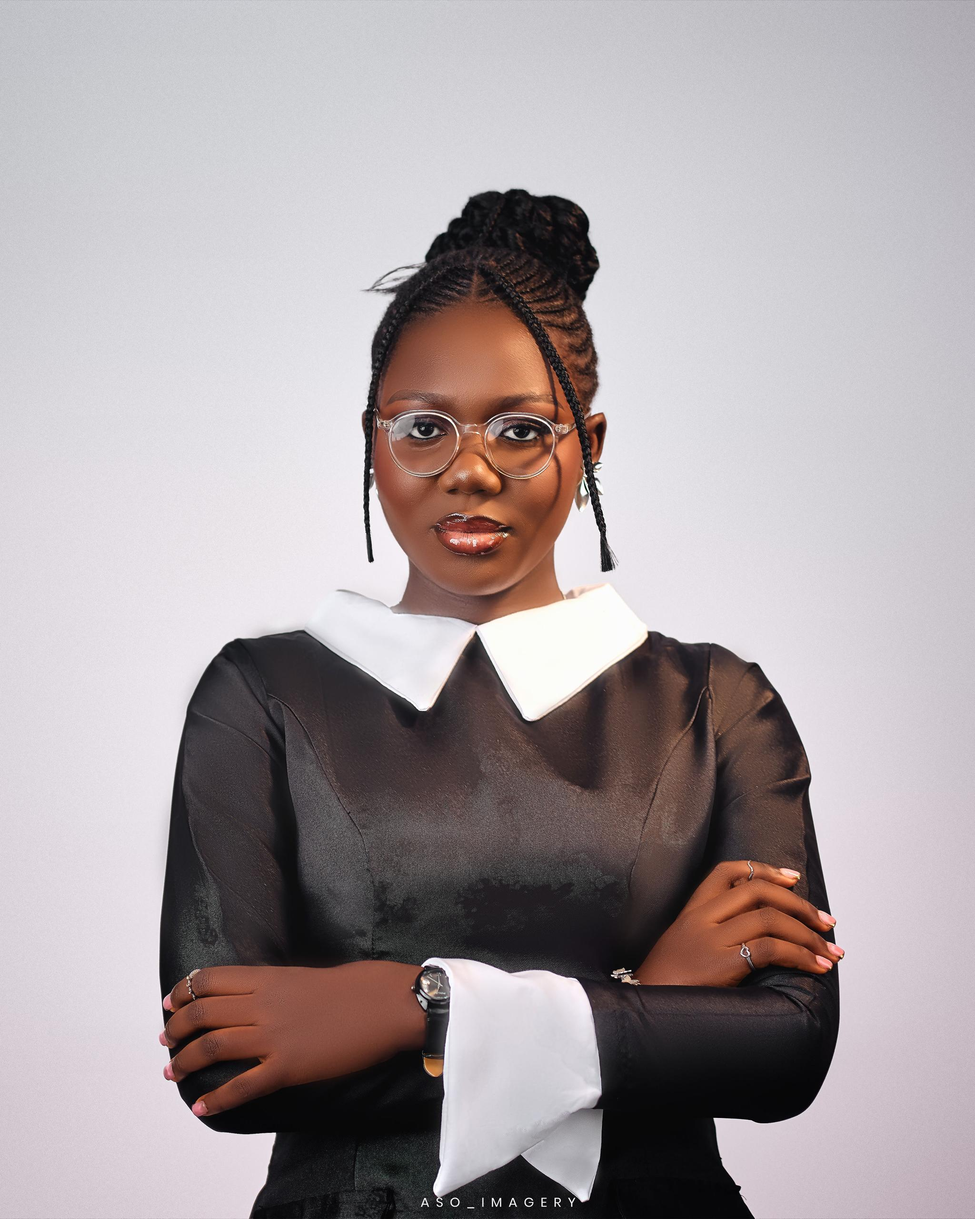
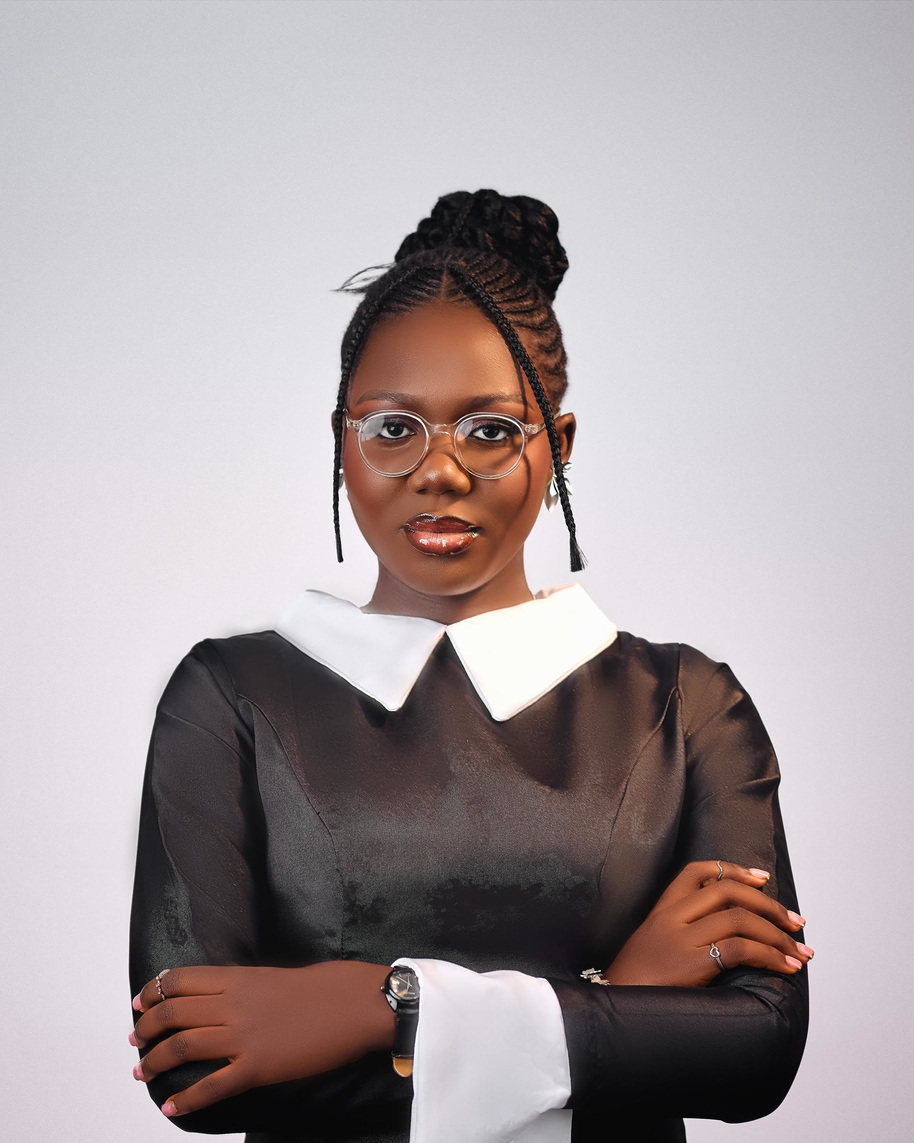
Crop ASO_IMAGERY watermark from the portrait
The photo matched the 4:5 frame, so CSS object-position never hid
the studio mark. Trim the bottom band and restore the 4:5 crop.

Changed region(s): [[0.125, 0.1562, 0.9062, 1.0]]

diff --git a/src/components/portrait.tsx b/src/components/portrait.tsx
@@ -18,7 +18,7 @@ export function Portrait({
           fill
           priority={priority}
           sizes="(min-width: 1024px) 420px, 90vw"
-          className="object-cover object-[center_18%]"
+          className="object-cover object-top"
         />
       </div>
       <figcaption className="sr-only">
